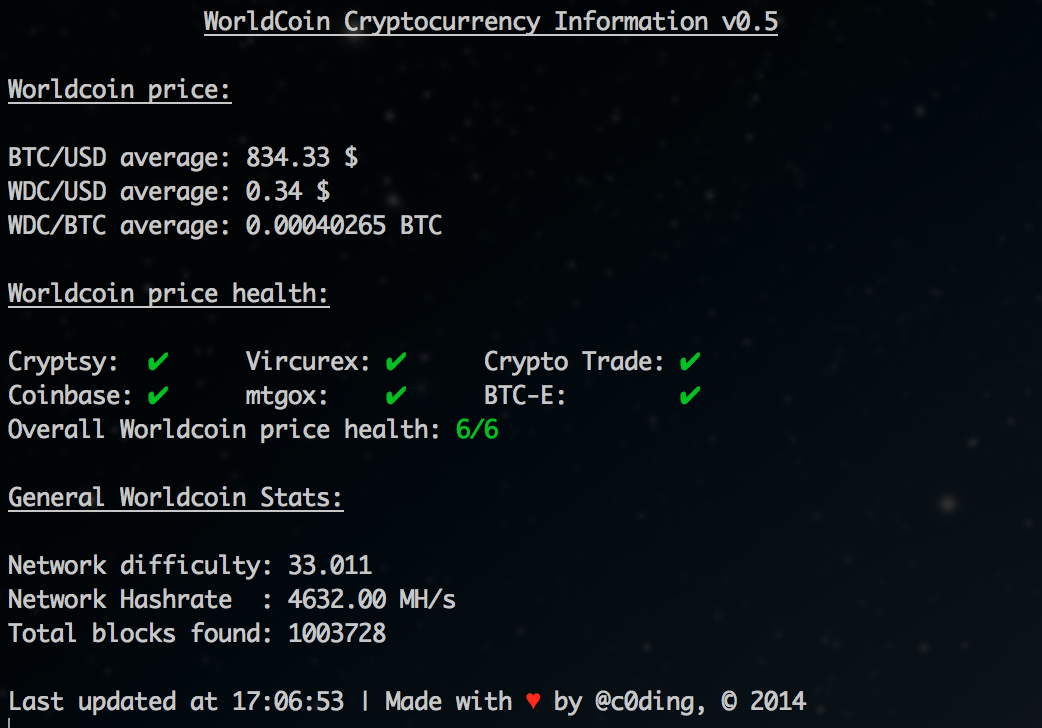
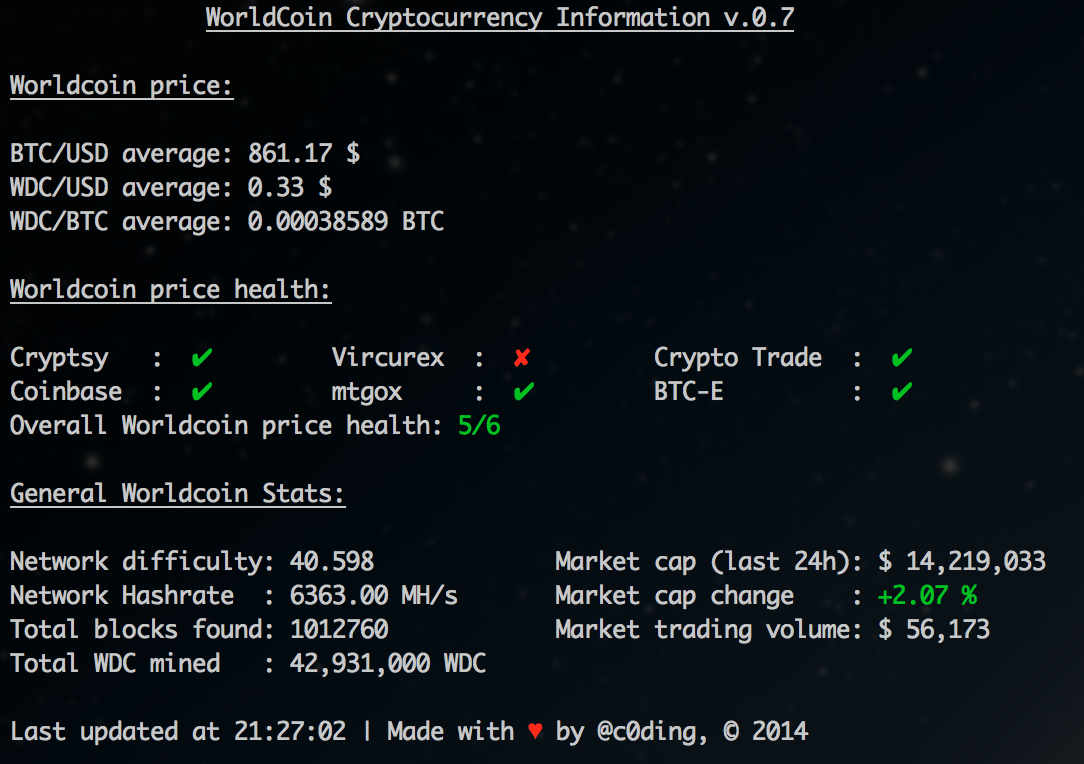
v.0.7 • added market cap and trading info

diff --git a/wdcinfo.py b/wdcinfo.py
@@ -8,7 +8,7 @@ import requests
 import lxml.html
 
 __appname__ = "WorldCoin Cryptocurrency Information"
-__version__ = "v.0.6"
+__version__ = "v.0.7"
 
 def get_info():
 	""" Fetches price and network difficulty from wdcticker.com """
@@ -44,13 +44,28 @@ def get_more_info():
 	hashrate = data.find(".//h2").text
 	hashrate = hashrate.replace("Hash Rate", "Hashrate")
 	hashrate = hashrate.replace("M/H", "MH/s")
-	hashrate = hashrate.replace(": ", ":   ")
+	hashrate = hashrate.replace(": ", "  : ")
 	hashrate = hashrate.strip()
 	blocks = data.xpath('//tr/td//text()')
 	blocks = blocks[2]
 	return hashrate, blocks
 
-def output(d, hashrate):
+
+def get_even_more_info():
+	""" Fetches market cap, trading volume, trading volume fluctuation and total WDC supply found from coinmarketcap.com """
+	data = lxml.html.parse("http://coinmarketcap.com/")
+	tree = data.xpath('//tr[@id="wdc"]/td//text()')
+	market_cap = tree[3]
+	total_wdc = tree[5]
+	market_volume = tree[6]
+	market_cap_change = tree[7]
+	if market_cap_change > 0:
+		market_cap_change = "\033[32m" + market_cap_change + "\033[39m"
+	else:
+		market_cap_change = "\033[31m" + market_cap_change + "\033[39m"
+	return market_cap, total_wdc, market_volume, market_cap_change
+
+def output(d, hashrate, market_cap):
 	""" Prints all data in a more or less elegant way """
 	print "\n	      \033[4m%s %s\033[0m\n" % (__appname__, __version__)
 	print "\033[4mWorldcoin price:\033[0m\n"
@@ -58,18 +73,19 @@ def output(d, hashrate):
 	print "WDC/USD average: " + d[u'wdc_usd_avg'] + " $"
 	print "WDC/BTC average: " + d[u'wdc_btc_avg'] + " BTC\n"
 	print "\033[4mWorldcoin price health:\033[0m\n"
-	print "Cryptsy:  " + d[u'cryptsy_set'] + "      Vircurex: " + d[u'vircurex_set'] + "      Crypto Trade: " + d[u'crypto_trade_set']
-	print "Coinbase: " + d[u'coinbase_btc_set'] + "      mtgox:    " + d[u'coinbase_btc_set'] + "      BTC-E:        " + d[u'btc_e_btc_set']
+	print "Cryptsy   :  " + d[u'cryptsy_set'] + "         Vircurex  :  " + d[u'vircurex_set'] + "         Crypto Trade  :  " + d[u'crypto_trade_set']
+	print "Coinbase  :  " + d[u'coinbase_btc_set'] + "         mtgox     :  " + d[u'coinbase_btc_set'] + "         BTC-E         :  " + d[u'btc_e_btc_set']
 	print "Overall Worldcoin price health: " + d[u'health_rating']
 	print "\n\033[4mGeneral Worldcoin Stats:\033[0m\n "
-	print "Network difficulty: " + str(d[u'network_diff'])
-	print hashrate[0]
-	print "Total blocks found: " + hashrate[1] + "\n"
+	print "Network difficulty: " + str(d[u'network_diff']) + "             Market cap (last 24h): " + market_cap[0]
+	print hashrate[0] + "       Market cap change    : " + market_cap[3]
+	print "Total blocks found: " + hashrate[1] + "            Market trading volume: " + market_cap[2]
+	print "Total WDC mined   : " + market_cap[1] + "\n"
 	print "Last updated at " + time.strftime('%H:%M:%S',time.localtime()) + " | Made with \033[31m♥\033[39m by @c0ding, © 2014"
 
 def main():
 	try:
-		output(get_info(), get_more_info())
+		output(get_info(), get_more_info(), get_even_more_info())
 	except:
 		print "Something went awfully wrong, please try again later."
 		
